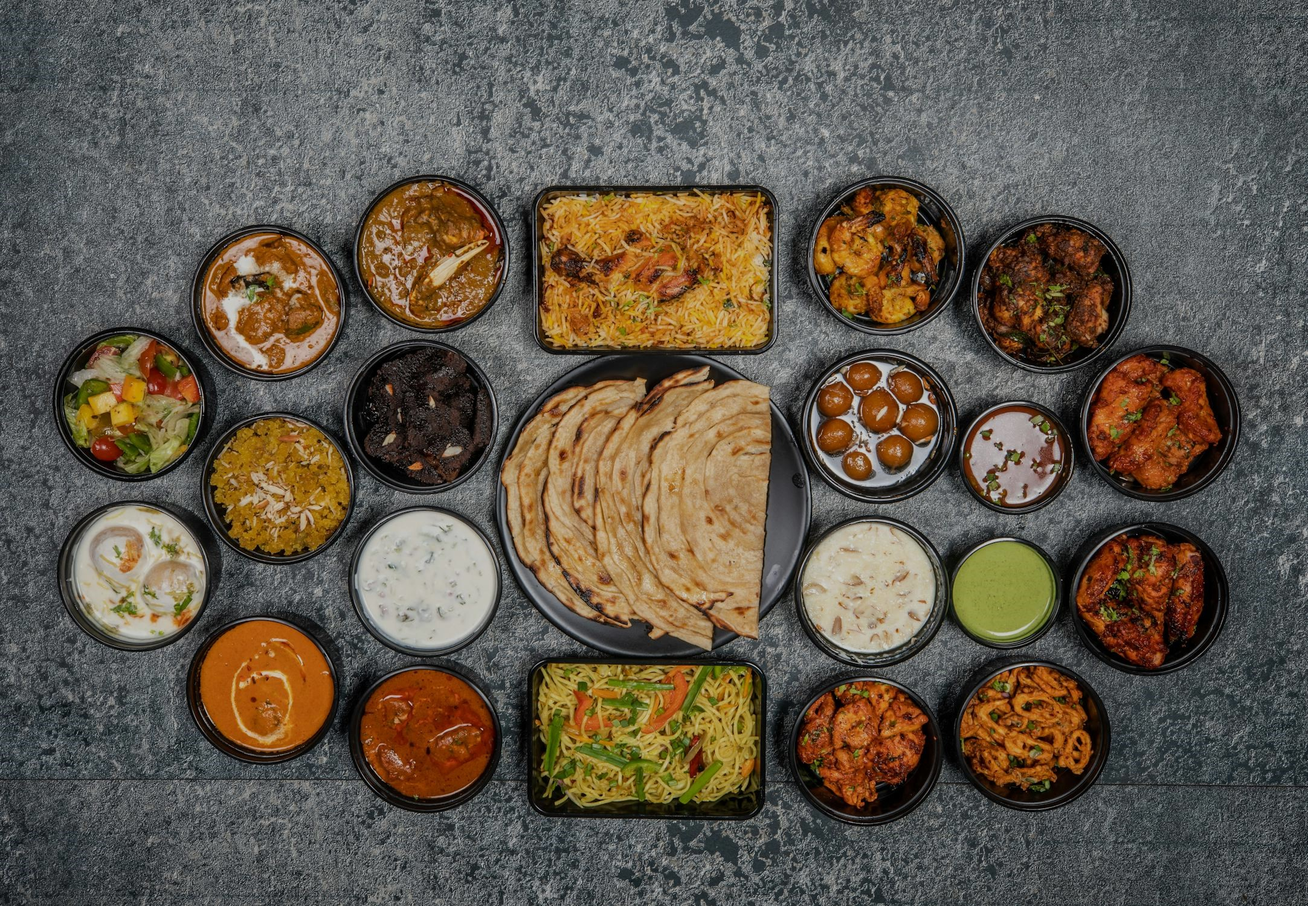
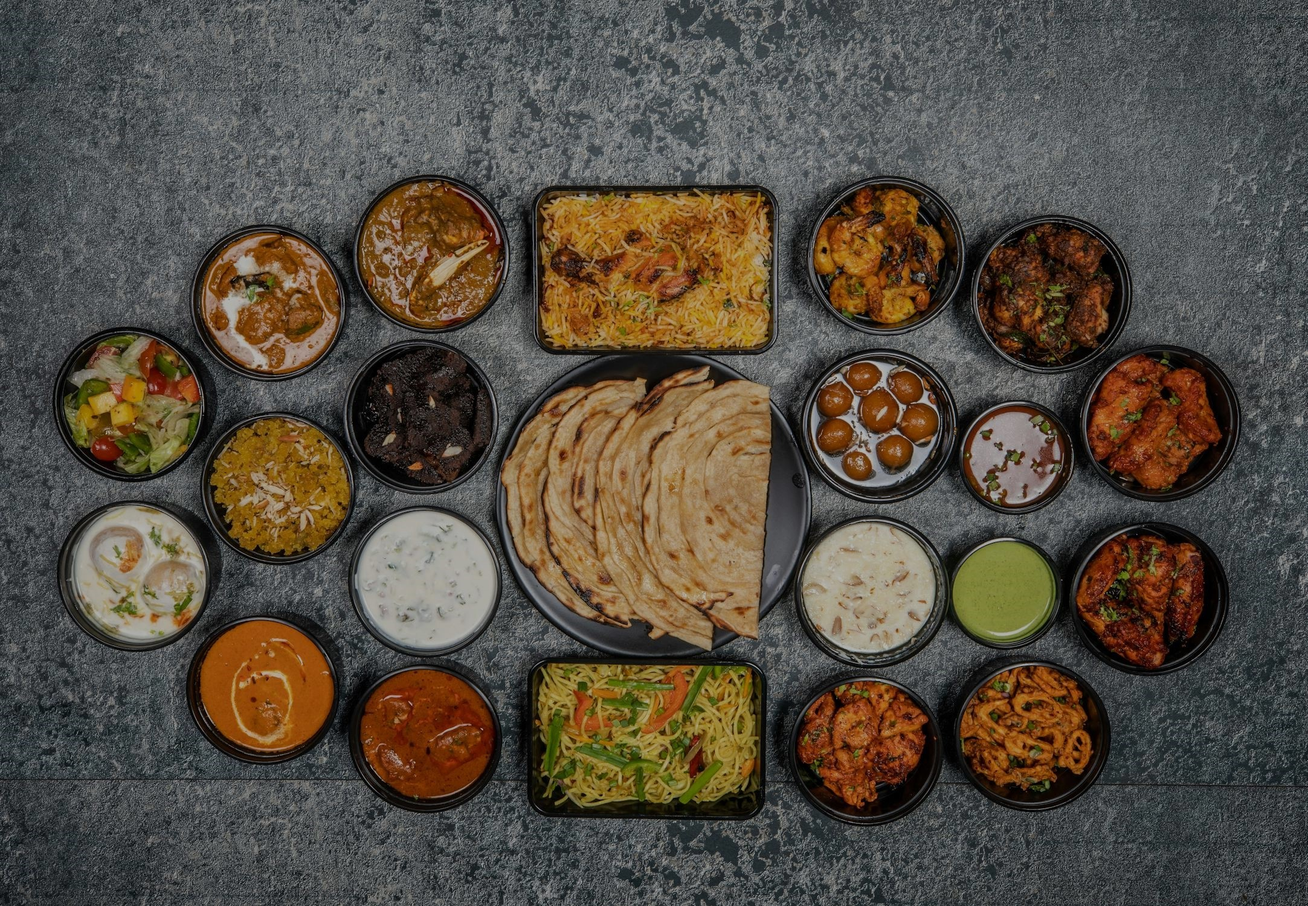
add

diff --git a/src/App.css b/src/App.css
@@ -1,9 +1,11 @@
 .header {
-  background-image: url("image/zomato-bg.png");
+  background-image: url("image/zomato-bg.jpeg");
   height: 90vh;
   background-size: cover;
   background-position: center;
   width: 100vw;
+ 
+
 }
 .logo-img {
   height: 35px;
